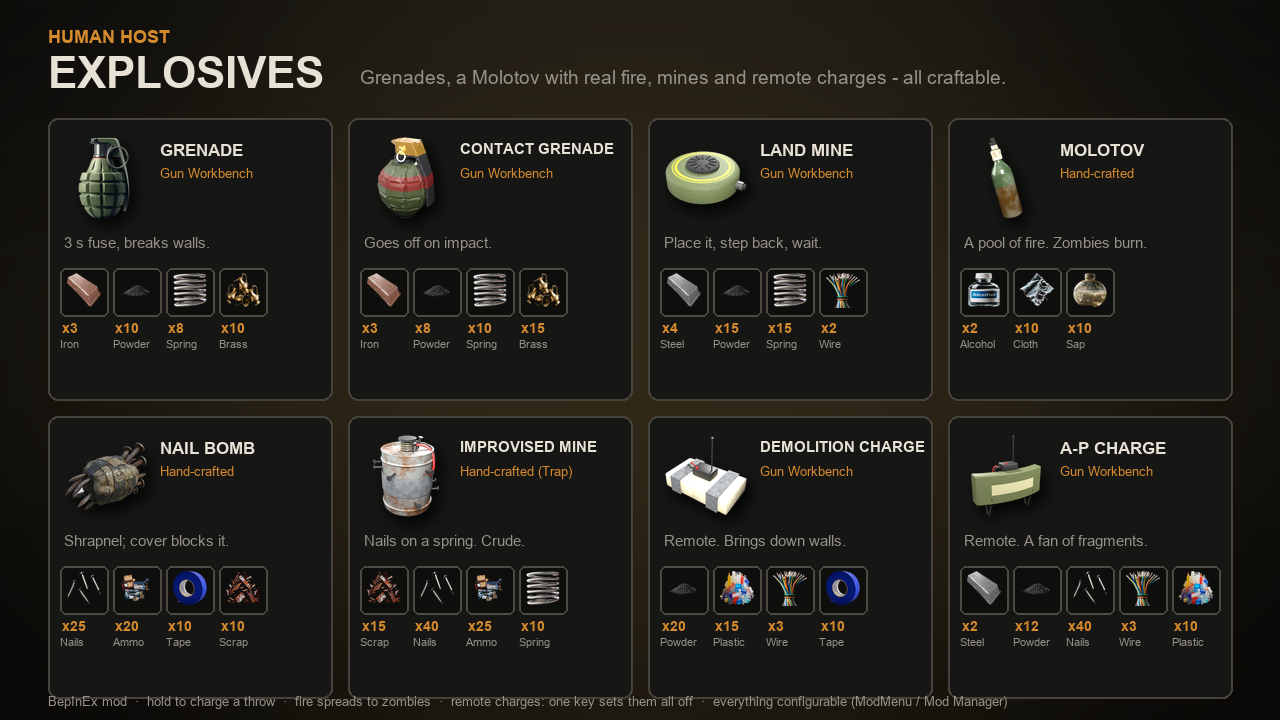
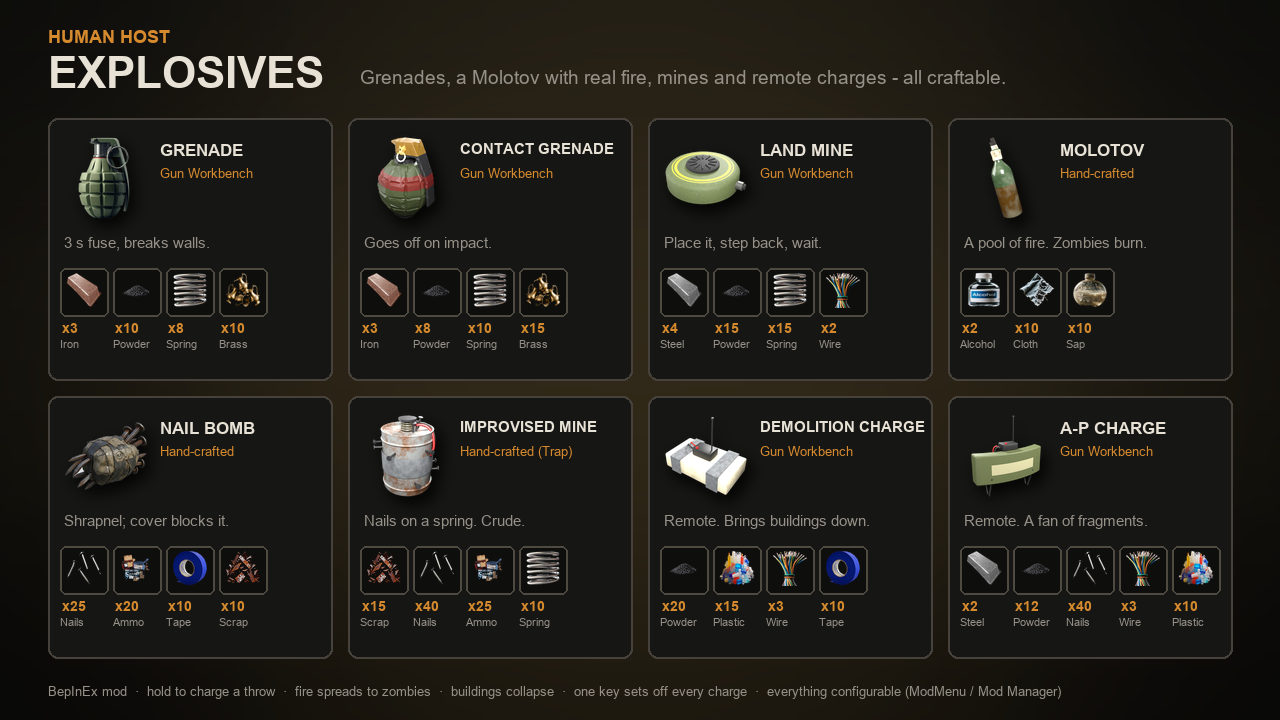
0.3.0 Workshop update: change note, description, new thumbnail with the demolition charge, example image fixes; ModMenu/HHMM entries for collapse, cut radius, debris and ground drops

Changed region(s): [[0.0312, 0.5194, 0.9688, 0.9167], [0.0312, 0.9472, 0.8438, 0.9778], [0.9375, 0.9472, 0.9688, 0.9778]]

diff --git a/ModMenuBridge.cs b/ModMenuBridge.cs
@@ -169,6 +169,14 @@ namespace HumanHostExplosives
                     "Damage to walls and blocks - what the demolition charge is for."),
                 new ModMenu.ModMenuSetting(Plugin.DemoDamage, "Demolition damage", "Remote charges",
                     "Damage to creatures at the centre of a demolition charge."),
+                new ModMenu.ModMenuSetting(Plugin.DemoCoreRadius, "Demolition cut radius (m)", "Remote charges",
+                    "Wall sections within this distance of a demolition charge are cut out. Larger = more destroyed, slower."),
+                new ModMenu.ModMenuSetting(Plugin.BuildingSupportCheck, "Buildings collapse", "Remote charges",
+                    "After a demolition charge, anything in the building no longer held up from the ground comes down."),
+                new ModMenu.ModMenuSetting(Plugin.SupportSpan, "Collapse tolerance", "Remote charges",
+                    "How much wider a gap floors may bridge after a blast before they fall. 0 = lose the support under it and it falls."),
+                new ModMenu.ModMenuSetting(Plugin.FastDemolitionCollapse, "Fast collapse", "Remote charges",
+                    "Cut each collapsing section in one frame: a quick collapse with a brief stutter, instead of a slow one."),
                 new ModMenu.ModMenuSetting(Plugin.APDamage, "Anti-personnel damage", "Remote charges",
                     "Fragment damage in front of an anti-personnel charge."),
                 new ModMenu.ModMenuSetting(Plugin.APRange, "Anti-personnel range (m)", "Remote charges",
@@ -205,6 +213,10 @@ namespace HumanHostExplosives
                     "Applied only to damage you take from your own explosives. 1 is full risk."),
                 new ModMenu.ModMenuSetting(Plugin.ExplosionsAttractZombies, "Explosions attract zombies", "Danger",
                     "Zombies path to the blast, not to you, so a thrown explosive works as a distraction."),
+                new ModMenu.ModMenuSetting(Plugin.ExplosionResourcesOnGround, "Resources drop on the ground", "Danger",
+                    "Resources knocked loose by an explosion land where the block was, instead of going into your bag."),
+                new ModMenu.ModMenuSetting(Plugin.DebrisChunks, "Debris chunks", "Danger",
+                    "Blasts next to a structure throw chunks of it outward. Visual only."),
                 new ModMenu.ModMenuSetting(Plugin.ExplosionVolume, "Explosion volume", "Sound",
                     "Volume of the detonation. Values above 1 amplify."),
                 new ModMenu.ModMenuSetting(Plugin.EchoDelay, "Echo delay (s)", "Sound",

diff --git a/Workshop/WORKSHOP.md b/Workshop/WORKSHOP.md
@@ -75,27 +75,28 @@ The falloff chart images were rendered 2026-09-17 from an interactive HTML chart
 
 ## Title
 
-    Explosives — Grenades, Molotovs & Mines
+    Explosives — Grenades, Molotovs, Mines & Demolition
 
 ## Short description
 
-    Craftable grenades, contact grenades, nail bombs, Molotovs with real fire, and placeable land
-    mines. Throw animations, structural damage, zombies that burn. Fully configurable.
+    Craftable grenades, Molotovs with real fire, land mines and remote demolition charges that bring
+    whole buildings down. Throw animations, zombies that burn, fully configurable.
 
 ## Description (Steam BBCode)
 
 ```
 [h1]Explosives[/h1]
-Craftable explosives for Human Host. Proper throw animations, real structural damage, fire that
-spreads to zombies, mines, and everything tunable.
+Craftable explosives for Human Host. Proper throw animations, real structural damage, buildings that
+collapse, fire that spreads between zombies, mines, and everything tunable.
 
 [h2]What it adds[/h2]
 [list]
 [*][b]Grenade[/b] (Gun Workbench): 3 second fuse, area damage that respects cover, breaks walls.
 [*][b]Contact grenade[/b] (Gun Workbench): explodes on the first thing it hits. A slightly smaller
 charge than the grenade.
-[*][b]Molotov cocktail[/b] (hand-crafted): shatters into a pool of fire. Zombies that walk through
-catch fire and keep burning. So can you. The flames and light are the game's own torch effects.
+[*][b]Molotov cocktail[/b] (hand-crafted): shatters into a wide pool of fire that burns for about 20
+seconds. Zombies that walk through catch fire, keep burning, and set the zombies around them alight.
+So can you. The flames and light are the game's own torch effects.
 [*][b]Nail bomb[/b] (hand-crafted): a crude pipe bomb that sprays shrapnel. Cover blocks it, it's
 brutal in the open, it's weak against walls, and it can make you bleed.
 [*][b]Land mine[/b] (Gun Workbench): tap LMB and your character kneels to set it down where you are
@@ -103,14 +104,19 @@ looking. It arms once you step away, blinks red, and blows up whatever comes clo
 blast near it, and it goes off. Pick it back up with your interact key. Saved with your game.
 [*][b]Improvised mine[/b] (hand-crafted, Trap tab): nails in a can on a spring trigger. It clicks
 before it blows, and sometimes it doesn't go off at all.
-[*][b]Remote charges[/b] (Gun Workbench), two kinds: the [b]demolition charge[/b] (2000 structure
-damage, built for breaching walls) and the [b]anti-personnel charge[/b] (faces the way you look, fires a
-wide fan of fragments). Place them like mines; a small on-screen widget shows how many are out and
-whether they are ARMING or READY, and one key (B by default) sets them all off. No detonator to carry.
-Shootable, can be picked back up, saved with your game.
+[*][b]Remote charges[/b] (Gun Workbench), two kinds. The [b]demolition charge[/b] sticks to walls or
+floors, cuts out the walls around it and [b]collapses the building[/b]: whatever is no longer held up from
+the ground comes down, lowest floors first, and stays destroyed when you save. It fells trees too. The
+[b]anti-personnel charge[/b] faces the way you look and fires a wide fan of fragments. Place them like
+mines; a small on-screen widget shows how many are out and whether they are ARMING or READY, and one key
+(B by default) sets them all off. No detonator to carry. Shootable, can be picked back up, saved with
+your game.
 [*][b]Hold to charge[/b] a throw for distance. Press G to quick-throw from your hotbar.
 [*]Explosions and breaking glass [b]draw zombies[/b] to the spot, not to you, so a throw works as a
 distraction. Lure them onto a mine.
+[*]Blasts throw chunks of what they hit, and resources knocked loose land on the ground, not in your bag.
+[*]Explosive and fire kills give the same XP as a gun kill, with the same skull marker.
+[*]Every explosive stacks to 10. Each explosion type has several recorded sounds, picked at random.
 [/list]
 
 [h2]Recipes[/h2]
@@ -141,7 +147,8 @@ both, and never copy the DLL out of its folder.
 
 [h2]Known limits[/h2]
 [list]
-[*]Fires are not saved (placed mines are).
+[*]Fires are not saved (placed mines and charges are).
+[*]A big collapse can cause a brief stutter. Turn off "Fast collapse" for a slower, smooth one.
 [*]Mines hurt you too by default, like the game's own traps. They never arm while you are next to
 one. Turn off "Mines can hit you" if you'd rather they only hit hostiles.
 [*]Not tested in multiplayer.
@@ -190,4 +197,5 @@ land mine and improvised mine. The recipes for all six items were reworked. Chan
   `resource_items_icon_assets_all_*.bundle`.
 - Recipe defaults changed, so `BindMigrated` in Plugin.cs migrates any upgrader value that still
   equals the 0.2.x default (§48). A fresh config skips that migration.
-- Nothing in 0.3.0 has been run in-game yet.
+- Play-tested 2026-09-25, including a fresh install with no config. Images regenerated the same day:
+  the thumbnail now shows the demolition charge, and the example image has the final recipes.
